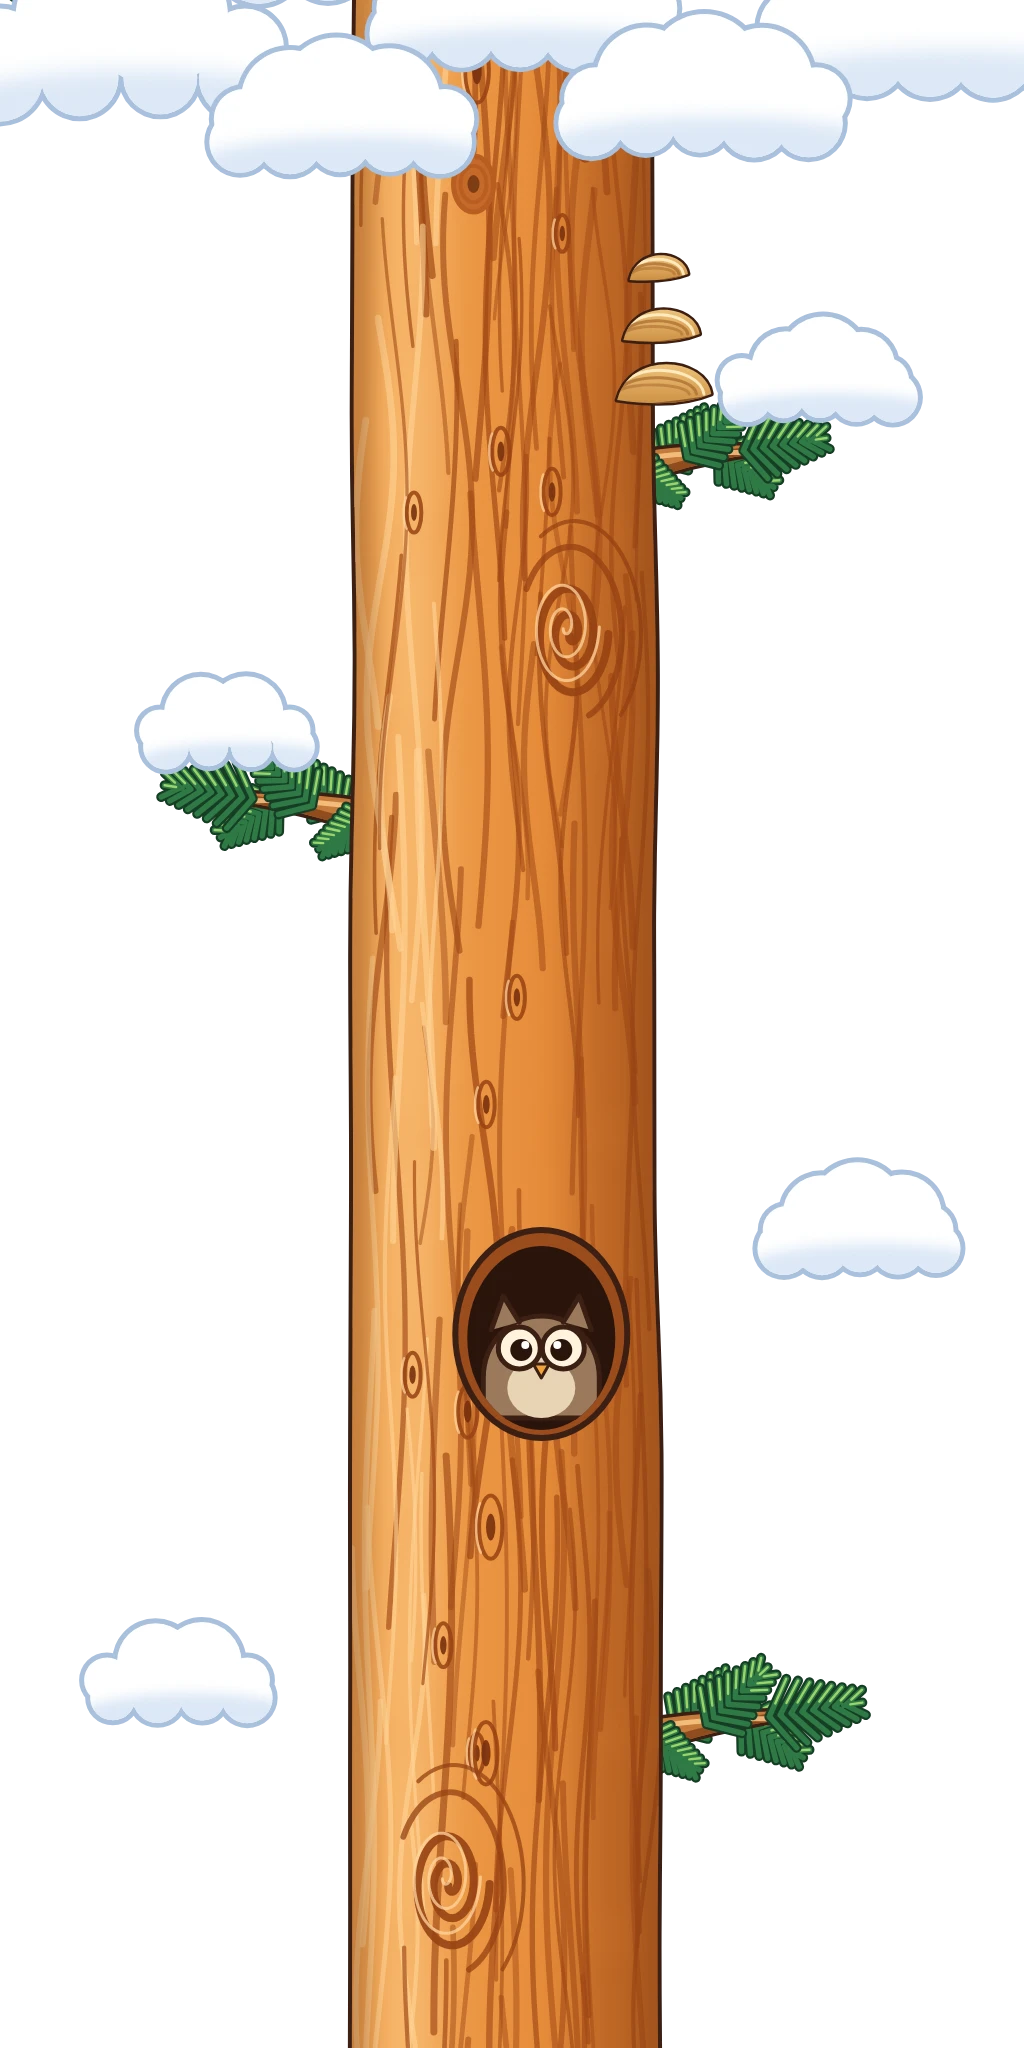
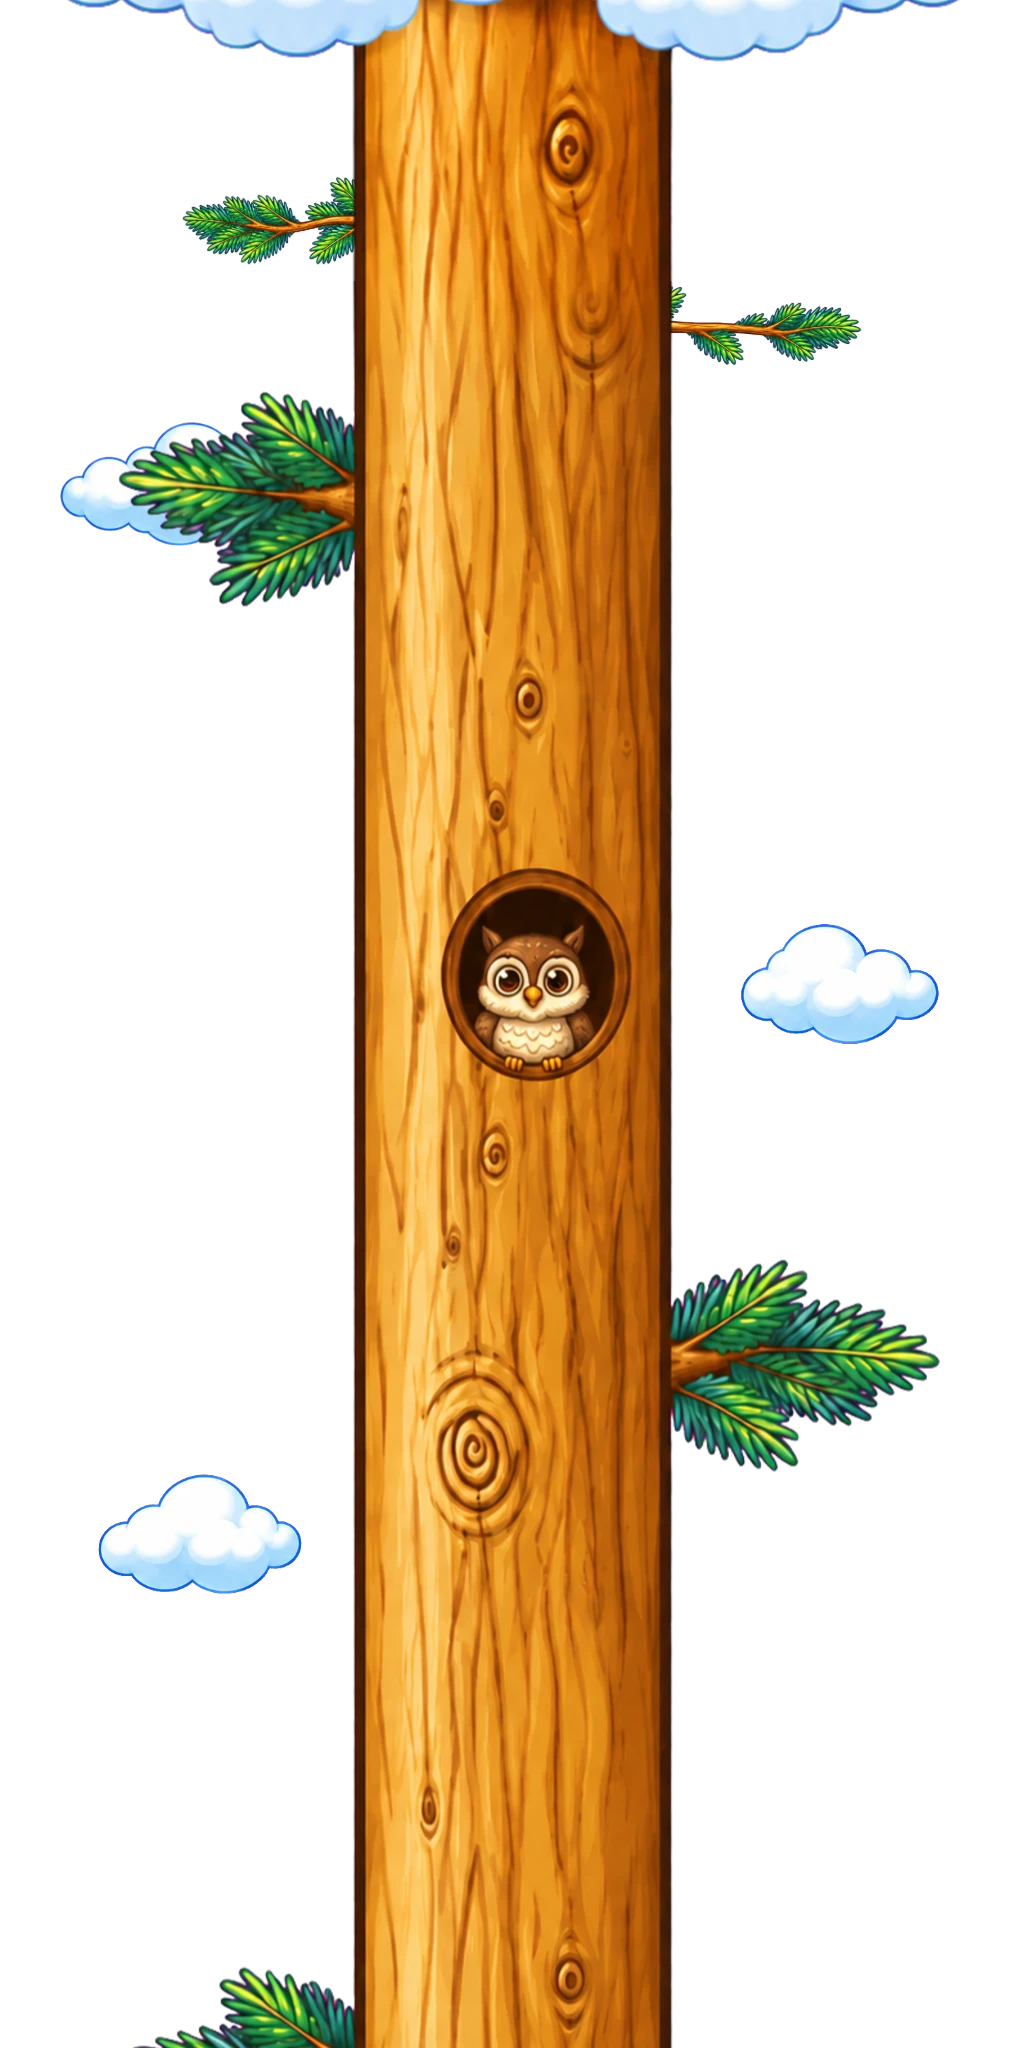
Build the preview scenery from the AI-generated pieces
ferramentas/montar-cenario-ia.html keys out the magenta background of the
images in arte-cenario-ia/recebidas, scales each trunk to the same width
on the same axis, stacks the tree foot, two trunk sections and the pine
crown with soft 90-row blends at the joins, and spreads the clouds and
extra branches (which also hide the joins). The strips in
assets/cenario-novo/ now come from this tool.

Claude-Session: https://claude.ai/code/session_01UKLCHVfcEm82uNscDst8Wb

diff --git a/ferramentas/montar-cenario-ia.html b/ferramentas/montar-cenario-ia.html
@@ -1,0 +1,274 @@
+<!DOCTYPE html>
+<html lang="pt-BR">
+<head>
+  <meta charset="utf-8">
+  <meta name="viewport" content="width=device-width, initial-scale=1">
+  <title>Montar cenario da IA</title>
+  <style>
+    body { font-family: Arial, sans-serif; background: #233c24; color: #ffe1a6; margin: 24px; }
+    button { font-size: 16px; padding: 10px 18px; background: #634128; color: #fff; border: 0; border-radius: 8px; cursor: pointer; }
+    #faixas { display: flex; gap: 12px; flex-wrap: wrap; margin-top: 16px; }
+    #faixas figure { margin: 0; text-align: center; }
+    #faixas img { width: 120px; display: block; border: 2px solid #ffe1a6; background: #7fb8e6; }
+    a { color: #ffd24a; }
+  </style>
+</head>
+<body>
+  <h1>Montar cenario da IA</h1>
+  <p>
+    Junta as imagens geradas por IA de <code>arte-cenario-ia/recebidas/</code> (pe da arvore, dois trechos
+    do tronco, copa, nuvens e galhos): tira o fundo magenta, deixa todos os troncos com a mesma largura
+    e no mesmo eixo, empilha com emendas suavizadas, espalha nuvens e galhos e gera as faixas WebP do
+    jogo. Salve os arquivos baixados em <code>assets/cenario-novo/</code>.
+  </p>
+  <p>Abra esta pagina pelo servidor local do jogo (por exemplo http://localhost:8000/ferramentas/montar-cenario-ia.html).</p>
+  <button id="gerar">Montar faixas</button>
+  <p id="estado"></p>
+  <div id="faixas"></div>
+  <script>
+    // Mesmas medidas do cenario novo em GameV2.js (texturaCenario da previa).
+    const arte = { largura: 1024, altura: 12264, alturaFaixa: 2044, margem: 2, centro: 512 };
+    // Largura do tronco na arte e quantas linhas cada emenda leva para trocar de uma imagem para a outra.
+    const larguraTronco = 315;
+    const emenda = 90;
+    const Y = (r) => arte.altura - r;
+    const pasta = '../arte-cenario-ia/recebidas/';
+
+    function carregar(nome) {
+      return new Promise((resolver, rejeitar) => {
+        const imagem = new Image();
+        imagem.onload = () => resolver(imagem);
+        imagem.onerror = () => rejeitar(new Error('nao carregou ' + nome));
+        imagem.src = pasta + nome;
+      });
+    }
+
+    // Tira o fundo magenta: quanto mais o pixel puxa para o magenta (vermelho e azul altos,
+    // verde baixo), mais transparente ele fica; nas bordas, desconta o magenta da cor.
+    function tirarMagenta(imagem) {
+      const tela = document.createElement('canvas');
+      tela.width = imagem.naturalWidth;
+      tela.height = imagem.naturalHeight;
+      const ctx = tela.getContext('2d', { willReadFrequently: true });
+      ctx.drawImage(imagem, 0, 0);
+      const dados = ctx.getImageData(0, 0, tela.width, tela.height);
+      const p = dados.data;
+      for (let i = 0; i < p.length; i += 4) {
+        const r = p[i], g = p[i + 1], b = p[i + 2];
+        const magenta = Math.min(r, b) - g;
+        const alfa = Math.max(0, Math.min(1, (175 - magenta) / 110));
+        if (alfa >= 1) continue;
+        if (alfa <= 0.02) {
+          p[i + 3] = 0;
+          continue;
+        }
+        p[i] = Math.max(0, Math.min(255, (r - (1 - alfa) * 255) / alfa));
+        p[i + 1] = Math.max(0, Math.min(255, g / alfa));
+        p[i + 2] = Math.max(0, Math.min(255, (b - (1 - alfa) * 255) / alfa));
+        p[i + 3] = Math.round(alfa * 255);
+      }
+      ctx.putImageData(dados, 0, 0);
+      return tela;
+    }
+
+    // Bordas do tronco numa faixa de linhas: parte do meio e anda para os lados ate o fundo.
+    function medirTronco(tela, y0, y1) {
+      const ctx = tela.getContext('2d', { willReadFrequently: true });
+      const esquerdas = [], direitas = [];
+      for (let y = y0; y < y1; y += 4) {
+        const linha = ctx.getImageData(0, y, tela.width, 1).data;
+        const opaco = (x) => linha[x * 4 + 3] > 128;
+        let meio = Math.round(tela.width / 2);
+        for (let d = 0; d < tela.width / 4 && !opaco(meio); d++) meio += d % 2 ? d : -d;
+        let e = meio, dd = meio;
+        while (e > 0 && opaco(e - 1)) e--;
+        while (dd < tela.width - 1 && opaco(dd + 1)) dd++;
+        esquerdas.push(e);
+        direitas.push(dd);
+      }
+      const mediana = (v) => v.slice().sort((a, b) => a - b)[Math.floor(v.length / 2)];
+      const esquerda = mediana(esquerdas), direita = mediana(direitas);
+      return { esquerda, direita, largura: direita - esquerda, centro: (esquerda + direita) / 2 };
+    }
+
+    // Recorta cada figura separada de uma folha (nuvens, galhos) pelas areas opacas.
+    function recortarFiguras(tela) {
+      const ctx = tela.getContext('2d', { willReadFrequently: true });
+      const { width: w, height: h } = tela;
+      const alfa = ctx.getImageData(0, 0, w, h).data;
+      const visto = new Uint8Array(w * h);
+      const figuras = [];
+      for (let inicio = 0; inicio < w * h; inicio++) {
+        if (visto[inicio] || alfa[inicio * 4 + 3] < 40) continue;
+        let x0 = w, y0 = h, x1 = 0, y1 = 0, n = 0;
+        const pilha = [inicio];
+        visto[inicio] = 1;
+        while (pilha.length) {
+          const k = pilha.pop();
+          const x = k % w, y = (k - x) / w;
+          n++;
+          if (x < x0) x0 = x; if (x > x1) x1 = x; if (y < y0) y0 = y; if (y > y1) y1 = y;
+          for (const v of [k - 1, k + 1, k - w, k + w]) {
+            if (v < 0 || v >= w * h || visto[v] || alfa[v * 4 + 3] < 40) continue;
+            if ((v === k - 1 && x === 0) || (v === k + 1 && x === w - 1)) continue;
+            visto[v] = 1;
+            pilha.push(v);
+          }
+        }
+        if (n < 2000) continue;
+        const folga = 6;
+        const figura = document.createElement('canvas');
+        figura.width = x1 - x0 + 1 + folga * 2;
+        figura.height = y1 - y0 + 1 + folga * 2;
+        figura.getContext('2d').drawImage(tela, x0 - folga, y0 - folga, figura.width, figura.height, 0, 0, figura.width, figura.height);
+        figuras.push({ tela: figura, x: x0, y: y0 });
+      }
+      // Em ordem de leitura: de cima para baixo, da esquerda para a direita.
+      return figuras.sort((a, b) => (Math.abs(a.y - b.y) > 80 ? a.y - b.y : a.x - b.x)).map((f) => f.tela);
+    }
+
+    async function prepararPecas() {
+      const nomes = ['base', 'tronco-1', 'tronco-2', 'copa', 'nuvens', 'galhos'];
+      const pecas = {};
+      for (const nome of nomes) pecas[nome] = tirarMagenta(await carregar(nome + '.png'));
+      return pecas;
+    }
+
+    // Amplia a peca para o tronco ficar com `larguraTronco` e devolve onde ela fica na arte.
+    function encaixar(tela, tronco) {
+      const escala = larguraTronco / tronco.largura;
+      return { tela, escala, largura: tela.width * escala, altura: tela.height * escala, x: arte.centro - tronco.centro * escala };
+    }
+
+    // Desenha a peca com a base em `r`; `suave` deixa as ultimas linhas de baixo sumindo aos poucos,
+    // para ela se misturar com a peca de baixo na emenda.
+    function desenharPeca(ctx, peca, r, suave) {
+      const temp = document.createElement('canvas');
+      temp.width = Math.ceil(peca.largura);
+      temp.height = Math.ceil(peca.altura);
+      const t = temp.getContext('2d');
+      t.imageSmoothingQuality = 'high';
+      t.drawImage(peca.tela, 0, 0, temp.width, temp.height);
+      if (suave) {
+        const mascara = t.createLinearGradient(0, temp.height - emenda, 0, temp.height);
+        mascara.addColorStop(0, 'rgba(0,0,0,1)');
+        mascara.addColorStop(1, 'rgba(0,0,0,0)');
+        t.globalCompositeOperation = 'destination-in';
+        t.fillStyle = mascara;
+        t.fillRect(0, 0, temp.width, temp.height);
+      }
+      ctx.drawImage(temp, peca.x, Y(r) - temp.height);
+      return r + temp.height;
+    }
+
+    // Figura de uma folha (nuvem ou galho) com centro em (x, r); `lado` -1 espelha.
+    function desenharFigura(ctx, figura, x, r, escala, lado = 1) {
+      ctx.save();
+      ctx.translate(x, Y(r));
+      ctx.scale(lado * escala, escala);
+      ctx.imageSmoothingQuality = 'high';
+      ctx.drawImage(figura, -figura.width / 2, -figura.height / 2);
+      ctx.restore();
+    }
+
+    // Galho saindo do tronco: o toco cortado fica escondido atras da madeira.
+    function desenharGalho(ctx, galho, lado, r, escala) {
+      const meia = galho.width * escala / 2;
+      const borda = arte.centro + lado * larguraTronco / 2;
+      desenharFigura(ctx, galho, borda + lado * (meia - 70), r, escala, lado);
+    }
+
+    // Monta a arte inteira. Devolve a tela e onde ficou cada coisa, para conferir as alturas.
+    async function montarCenario() {
+      const pecas = await prepararPecas();
+      const alturaDe = (t) => t.height;
+      const base = encaixar(pecas.base, medirTronco(pecas.base, 10, 120));
+      const tronco1 = encaixar(pecas['tronco-1'], medirTronco(pecas['tronco-1'], 10, 120));
+      const tronco2 = encaixar(pecas['tronco-2'], medirTronco(pecas['tronco-2'], 10, 120));
+      const copa = encaixar(pecas.copa, medirTronco(pecas.copa, alturaDe(pecas.copa) - 120, alturaDe(pecas.copa) - 10));
+      const nuvens = recortarFiguras(pecas.nuvens);
+      const galhos = recortarFiguras(pecas.galhos);
+
+      // Alturas das emendas: cada peca comeca `emenda` linhas antes do fim da de baixo.
+      const inicio1 = base.altura - emenda;
+      const inicio2 = inicio1 + tronco1.altura - emenda;
+      const inicioCopa = inicio2 + tronco2.altura - emenda;
+
+      const tela = document.createElement('canvas');
+      tela.width = arte.largura;
+      tela.height = arte.altura;
+      const ctx = tela.getContext('2d', { willReadFrequently: true });
+
+      // Nuvens atras de tudo, alternando os lados pela subida (algumas espelhadas para variar).
+      [
+        [1, 180, 1720, 0.5, -1], [4, 860, 1420, 0.55, 1],
+        [0, 170, 2250, 0.55, 1], [1, 860, 2750, 0.55, 1], [2, 190, 3350, 0.6, 1], [3, 850, 3950, 0.6, -1],
+        [4, 200, 4600, 0.7, 1], [5, 840, 5150, 0.7, 1], [2, 180, 5650, 0.5, -1]
+      ].forEach(([i, x, r, escala, lado]) => desenharFigura(ctx, nuvens[i], x, r, escala, lado));
+
+      // Galhos extras nas emendas, que tambem disfarcam a troca de imagem.
+      desenharGalho(ctx, galhos[0], -1, inicio1 + emenda / 2, 0.3);
+      desenharGalho(ctx, galhos[1], 1, inicio2 + emenda / 2, 0.3);
+      desenharGalho(ctx, galhos[2], 1, inicioCopa + emenda / 2, 0.28);
+      desenharGalho(ctx, galhos[3], -1, inicioCopa + 150, 0.26);
+
+      desenharPeca(ctx, base, 0, false);
+      desenharPeca(ctx, tronco1, inicio1, true);
+      desenharPeca(ctx, tronco2, inicio2, true);
+      const topoCopa = desenharPeca(ctx, copa, inicioCopa, true);
+      return { tela, alturas: { inicio1, inicio2, inicioCopa, topoCopa, escalas: [base.escala, tronco1.escala, tronco2.escala, copa.escala] } };
+    }
+
+    // Recorta a arte em faixas com margem de filtragem e devolve os WebP prontos.
+    async function gerarFaixas(aoAvancar = () => {}) {
+      aoAvancar('Montando o cenario...');
+      const { tela } = await montarCenario();
+      const quantidade = Math.ceil(arte.altura / arte.alturaFaixa);
+      const faixas = [];
+      for (let i = 0; i < quantidade; i++) {
+        aoAvancar(`Recortando faixa ${i + 1} de ${quantidade}...`);
+        const inicio = i * arte.alturaFaixa;
+        const faixa = document.createElement('canvas');
+        faixa.width = arte.largura;
+        faixa.height = Math.min(arte.alturaFaixa, arte.altura - inicio) + arte.margem * 2;
+        faixa.getContext('2d').drawImage(tela, 0, -(inicio - arte.margem));
+        const blob = await new Promise((resolver) => faixa.toBlob(resolver, 'image/webp', 0.9));
+        faixas.push({ nome: `cenario-${i}.webp`, blob });
+      }
+      return faixas;
+    }
+
+    document.getElementById('gerar').addEventListener('click', async () => {
+      const estado = document.getElementById('estado');
+      const lista = document.getElementById('faixas');
+      lista.innerHTML = '';
+      try {
+        const faixas = await gerarFaixas((texto) => { estado.textContent = texto; });
+        estado.textContent = 'Pronto! Clique em cada faixa para baixar e salve em assets/cenario-novo/.';
+        for (const faixa of faixas) {
+          const url = URL.createObjectURL(faixa.blob);
+          lista.insertAdjacentHTML('beforeend', `<figure><a href="${url}" download="${faixa.nome}">
+            <img src="${url}" alt="${faixa.nome}"></a>
+            <figcaption>${faixa.nome}<br>${Math.round(faixa.blob.size / 1024)} KB</figcaption></figure>`);
+        }
+      } catch (erro) {
+        estado.textContent = 'Erro: ' + erro.message;
+      }
+    });
+
+    // Medidas usadas para encaixar as pecas; exposta para conferir de fora.
+    async function medir() {
+      const pecas = await prepararPecas();
+      const alt = (t) => t.height;
+      return {
+        base: { tamanho: [pecas.base.width, alt(pecas.base)], topo: medirTronco(pecas.base, 10, 120) },
+        tronco1: { tamanho: [pecas['tronco-1'].width, alt(pecas['tronco-1'])], baixo: medirTronco(pecas['tronco-1'], alt(pecas['tronco-1']) - 120, alt(pecas['tronco-1']) - 10), topo: medirTronco(pecas['tronco-1'], 10, 120) },
+        tronco2: { tamanho: [pecas['tronco-2'].width, alt(pecas['tronco-2'])], baixo: medirTronco(pecas['tronco-2'], alt(pecas['tronco-2']) - 120, alt(pecas['tronco-2']) - 10), topo: medirTronco(pecas['tronco-2'], 10, 120) },
+        copa: { tamanho: [pecas.copa.width, alt(pecas.copa)], baixo: medirTronco(pecas.copa, alt(pecas.copa) - 120, alt(pecas.copa) - 10) },
+        nuvens: recortarFiguras(pecas.nuvens).map((t) => [t.width, t.height]),
+        galhos: recortarFiguras(pecas.galhos).map((t) => [t.width, t.height])
+      };
+    }
+  </script>
+</body>
+</html>
